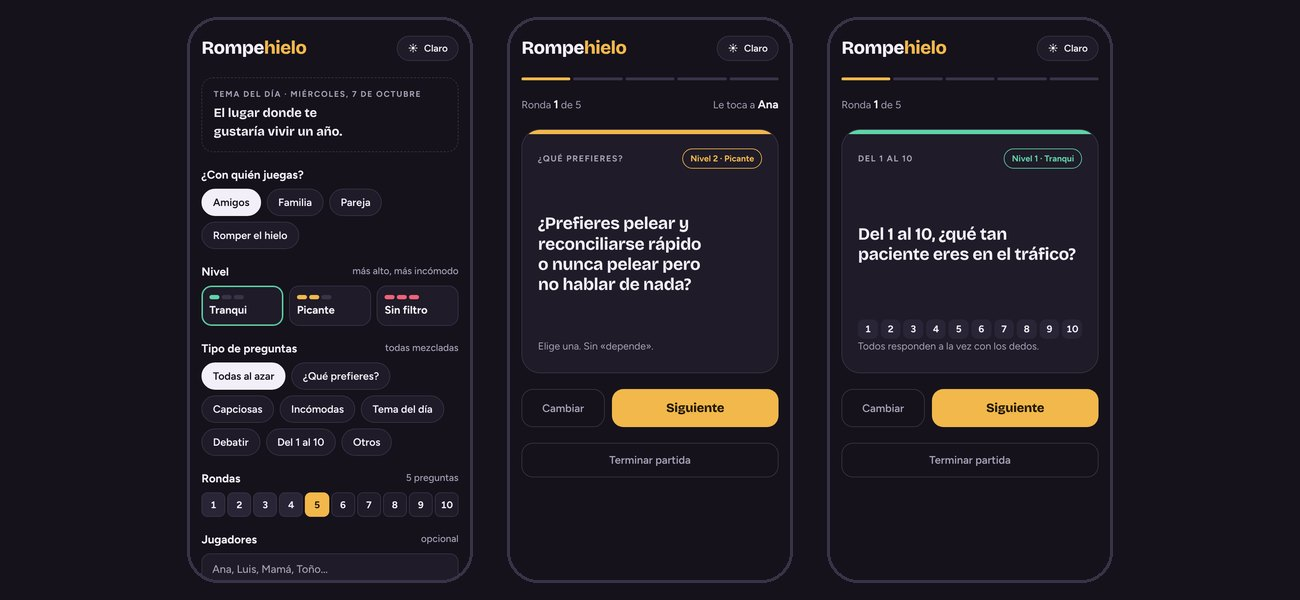
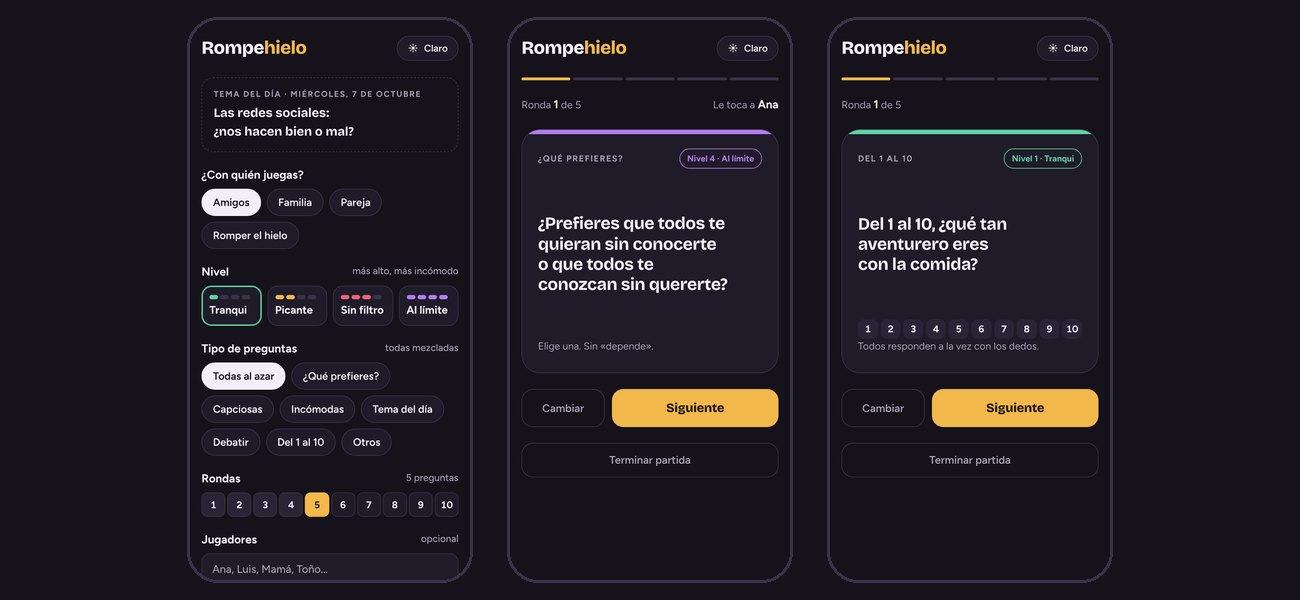
Rompehielo: 4 niveles y casi 700 preguntas en la página, captura nueva
El APK 0.2.0 llega en el siguiente commit.

Claude-Session: https://claude.ai/code/session_01DCztCyP5jfThb3idpWMcHz

diff --git a/index.html b/index.html
@@ -76,8 +76,8 @@
     <div class="juego-cab"><img src="img/juegos/rompehielo.svg" alt=""><div><h2>Rompehielo</h2><p class="muted">Preguntas al azar para platicar con amigos, en familia, en pareja o con gente que apenas conoces. Nadie gana.</p></div></div>
     <figure class="captura"><img src="img/juegos/rompehielo-1.jpg" alt="Rompehielo: las opciones del juego, una pregunta de «¿Qué prefieres?» y una de «Del 1 al 10»" loading="lazy"></figure>
     <ul class="lista">
-      <li>Para amigos, familia, pareja o para romper el hielo, en 3 niveles: Tranqui, Picante y Sin filtro (mientras más alto, más difícil de contestar).</li>
-      <li>¿Qué prefieres?, capciosas, incómodas, tema del día, debates con cronómetro, del 1 al 10 y retos: casi 400 preguntas, y no se repiten hasta que ya salieron todas.</li>
+      <li>Para amigos, familia, pareja o para romper el hielo, en 4 niveles: Tranqui, Picante, Sin filtro y Al límite (mientras más alto, más difícil de contestar).</li>
+      <li>¿Qué prefieres?, capciosas, incómodas, tema del día, debates con cronómetro, del 1 al 10 y retos: casi 700 preguntas, y no se repiten hasta que ya salieron todas.</li>
       <li>De 1 a 10 rondas, con nombres para saber a quién le toca y modo «pásalo», que tapa la pregunta hasta que el celular llega a su dueño.</li>
       <li>Tema oscuro o claro. Un solo celular para todo el grupo.</li>
     </ul>
